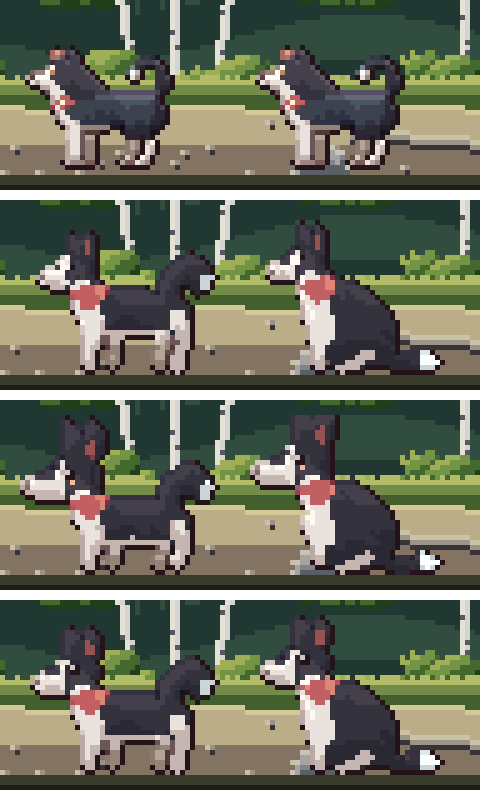
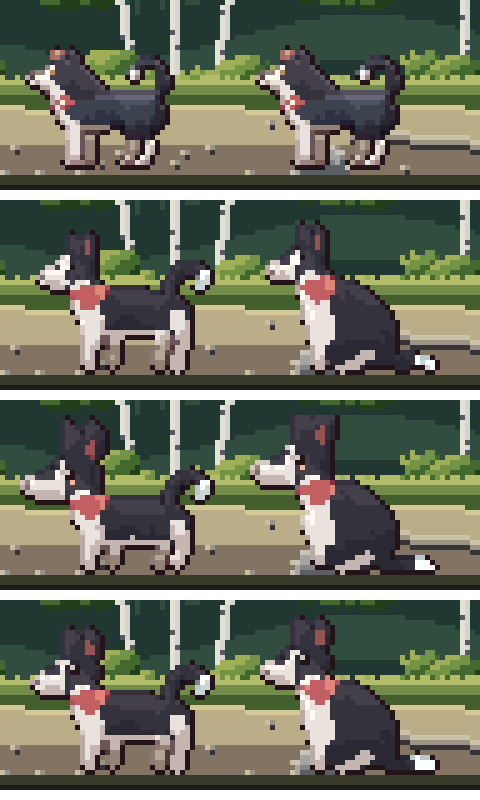
Study 8: Olive's tail slimmed to a tapering curl
Drawn as a tapering limb instead of a solid shape (a new "tail" part in
anatomy.py), curled over her back standing and along the ground sitting.
No other animal changes.

Claude-Session: https://claude.ai/code/session_01AFuv3xBDCFNHg8cxuFG86Z

diff --git a/tools/studio/study_creatures.py b/tools/studio/study_creatures.py
@@ -231,8 +231,9 @@ OLIVE = {
         "marks": [("W", [(10, 13), (13, 13), (15, 17), (16, 22), (12, 23), (10.5, 18)]),
                   ("W", [(16, 22.5), (28, 22.5), (28, 25), (16, 25)]),
                   ("R", [(10.2, 14.6), (15.6, 13.4), (16.4, 15.8), (13.4, 18.6), (11.2, 17)])],
-        "front": [("O", [(28.5, 17), (28, 12.5), (30.5, 9), (34.5, 8), (37.5, 10), (37.5, 13.5), (35, 15), (33.2, 13.2), (31.6, 13.4), (31.5, 16.8)]),
-                  ("H", [(35.2, 12.2), (37.6, 11.2), (37.6, 13.6), (35.4, 14.6)])],
+        # her tail: a slim plume curled up over her back, tapering to a white tip
+        "tail": [("O", [(29.5, 17.5), (29.6, 13.6), (31.4, 10.8), (34.2, 10), (36.4, 11.4)], [2.4, 2.2, 2, 1.8, 1.6]),
+                 ("H", [(36.4, 11.4), (36.2, 13.4), (34.8, 14.2)], [1.6, 1.4, 1.2])],
         "legs": [
             ("far", [(18, 21), (18.5, 26), (18, 30)], [2.2, 1.6, 1.4]),
             ("far", [(27.5, 21), (28.6, 25), (27.4, 27.5), (27.4, 30)], [3, 1.8, 1.4, 1.4]),
@@ -252,8 +253,8 @@ OLIVE = {
                            ("P", [(12.6, 3.9), (13.4, 3.5), (13.4, 5.9), (12.6, 5.9)])],
             "marks": [("W", [(10, 11.5), (13, 11.5), (15, 16), (16, 24), (12, 26), (10.5, 18)]),
                       ("R", [(10.2, 13.1), (15.6, 11.9), (16.4, 14.3), (13.4, 17.1), (11.2, 15.5)])],
-            "front": [("O", [(26, 27.5), (30, 28), (34, 27.4), (36.4, 28.6), (33, 30.2), (28, 30.2)]),
-                      ("H", [(33.6, 27.4), (36.6, 28), (36.4, 29.8), (33.6, 30)])],
+            "tail": [("O", [(26.5, 28.5), (30, 29.1), (33, 28.8)], [2.4, 2, 1.8]),
+                     ("H", [(33, 28.8), (35.6, 29.4)], [1.7, 1.4])],
             "legs": [
                 ("far", [(16.5, 20), (17, 25), (17, 30)], [2.2, 1.6, 1.4]),
                 ("near", [(13.5, 20), (13.5, 25), (13.5, 30)], [2.6, 1.8, 1.6]),

diff --git a/tools/characters/anatomy.py b/tools/characters/anatomy.py
@@ -200,6 +200,8 @@ def draw(spec, style="natural", pose="stand"):
             c.limb(j, w, spec.get("near", "O"))
     for ch, pts in p.get("front", []):
         c.blob(sh(pts), ch)
+    for ch, joints, widths in p.get("tail", []):
+        c.limb(sh(joints), widths, ch)  # a slim, tapering tail
     for side, j, w in legs:
         foot = spec.get("foot")
         if foot:

diff --git a/docs/studio/studies.md b/docs/studio/studies.md
@@ -388,6 +388,9 @@ in `tools/characters/anatomy.py`), 60 degrees, so they agree.
   separately they point different ways.
 - Parts that fold against a body of the same colour vanish; turn them so
   they stand clear of it, or give them a darker or lighter face.
+- A tail drawn as a solid shape reads as a plank; drawn as a tapering
+  limb (thick at the root, thin to the tip) it reads as a tail. (Olive's,
+  at your call.)
 - Antler tines need room: spaced three pixels apart with their outline,
   closer they merge into a clump.
 
